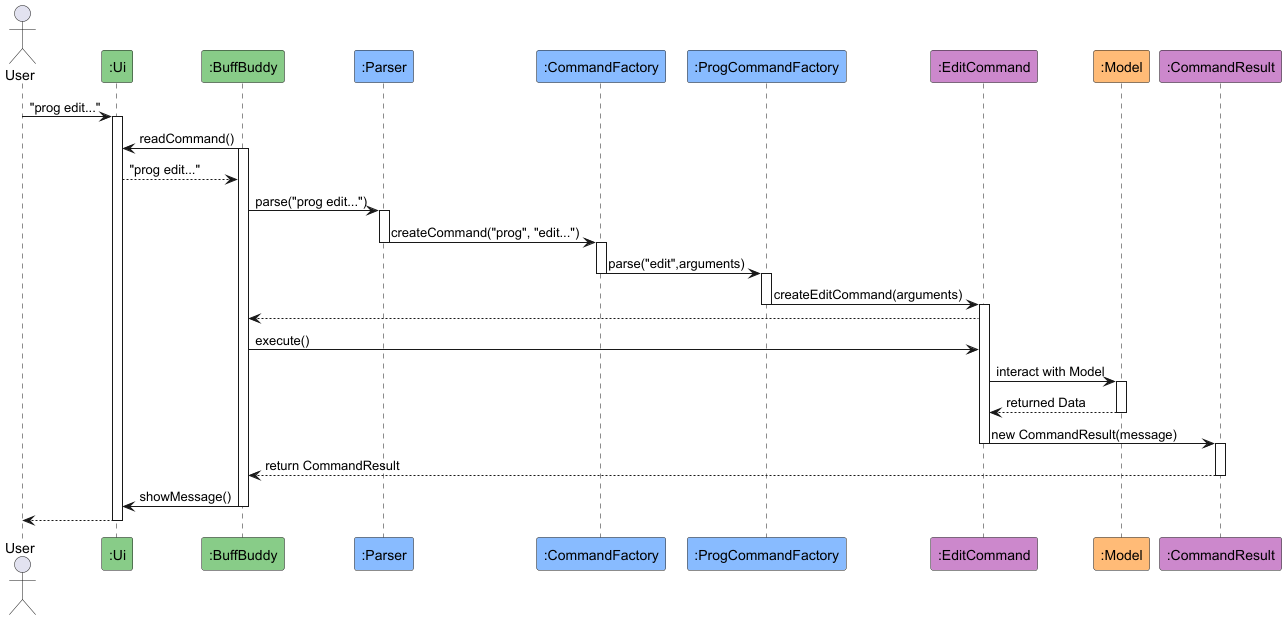
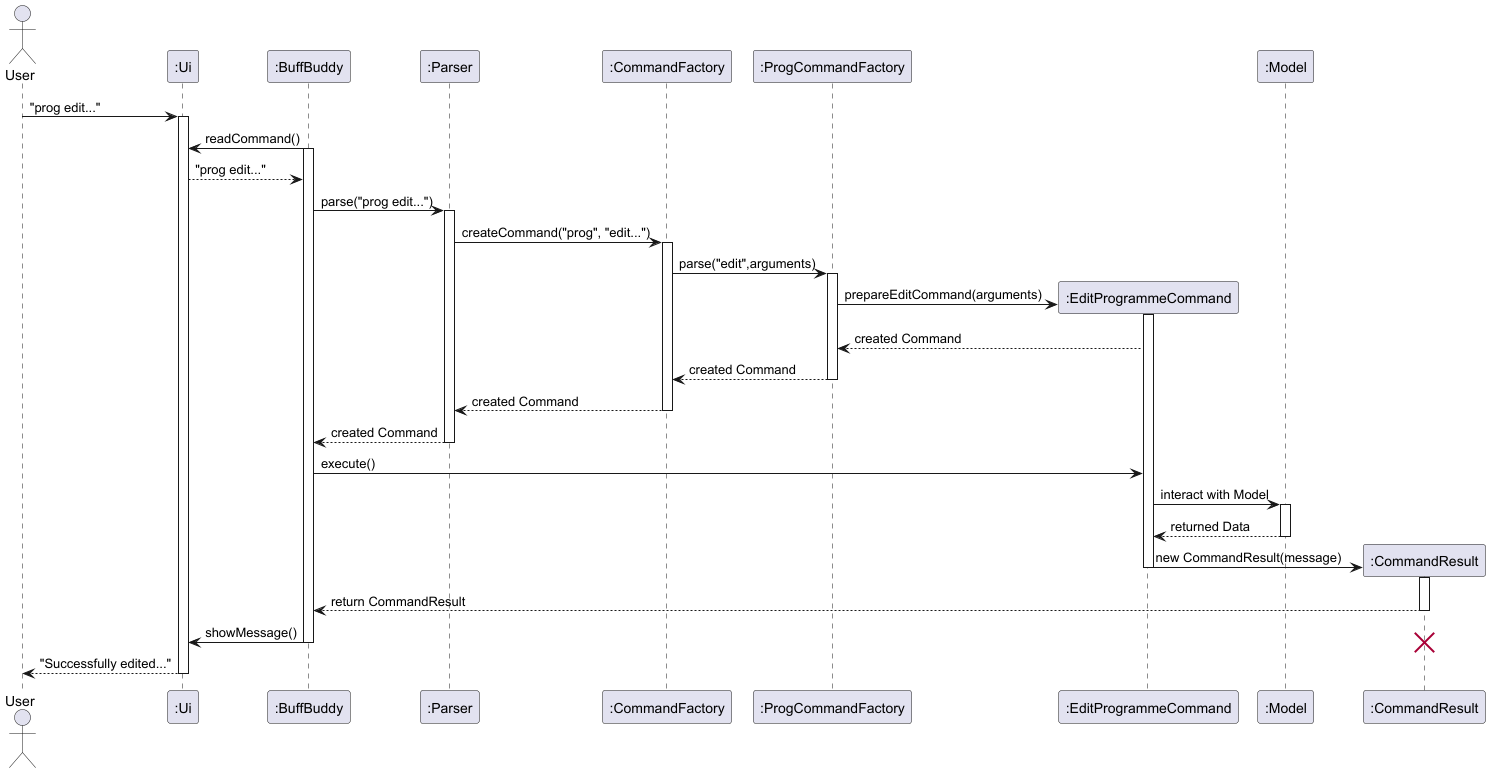
Add edit programme documentation

diff --git a/src/test/java/parser/command/factory/ProgammeCommandFactoryTest.java b/src/test/java/parser/command/factory/ProgammeCommandFactoryTest.java
@@ -29,12 +29,12 @@ import static org.junit.jupiter.api.Assertions.assertInstanceOf;
 import static org.junit.jupiter.api.Assertions.assertEquals;
 import static org.junit.jupiter.api.Assertions.assertThrows;
 
-class ProgCommandFactoryTest {
-    private ProgCommandFactory progCommandFactory;
+class ProgammeCommandFactoryTest {
+    private ProgammeCommandFactory progammeCommandFactory;
 
     @BeforeEach
     void setUp() {
-        progCommandFactory = new ProgCommandFactory();
+        progammeCommandFactory = new ProgammeCommandFactory();
     }
 
     // Tests for parse
@@ -42,7 +42,7 @@ class ProgCommandFactoryTest {
     void testParseValidCreateCommand() {
         String argumentString = "create /p MyProgram /d Day1";
 
-        Command result = progCommandFactory.parse(argumentString);
+        Command result = progammeCommandFactory.parse(argumentString);
 
         assertInstanceOf(CreateProgrammeCommand.class, result);
     }
@@ -51,7 +51,7 @@ class ProgCommandFactoryTest {
     void testParseValidListCommand() {
         String argumentString = "list";
 
-        Command result = progCommandFactory.parse(argumentString);
+        Command result = progammeCommandFactory.parse(argumentString);
 
         assertInstanceOf(ListProgrammeCommand.class, result);
     }
@@ -60,7 +60,7 @@ class ProgCommandFactoryTest {
     void testParseInvalidCommand() {
         String argumentString = "unknownCommand";
 
-        Command result = progCommandFactory.parse(argumentString);
+        Command result = progammeCommandFactory.parse(argumentString);
 
         assertInstanceOf(InvalidCommand.class, result);
     }
@@ -76,7 +76,7 @@ class ProgCommandFactoryTest {
         ArrayList<Day> expectedDays = new ArrayList<>(List.of(expectedDay));
         CreateProgrammeCommand expectedCommand = new CreateProgrammeCommand("MyProgram", expectedDays);
 
-        Command result = progCommandFactory.parse("create " + argumentString);
+        Command result = progammeCommandFactory.parse("create " + argumentString);
 
         assertEquals(expectedCommand, result);
     }
@@ -88,7 +88,7 @@ class ProgCommandFactoryTest {
         CreateProgrammeCommand expectedCommand = new CreateProgrammeCommand("MyEmptyProgram",
                 new ArrayList<>());
 
-        Command result = progCommandFactory.parse("create " + argumentString);
+        Command result = progammeCommandFactory.parse("create " + argumentString);
 
         assertEquals(expectedCommand, result);
     }
@@ -108,7 +108,7 @@ class ProgCommandFactoryTest {
         ArrayList<Day> expectedDays = new ArrayList<>(Arrays.asList(day1, day2));
         CreateProgrammeCommand expectedCommand = new CreateProgrammeCommand("MyProgram", expectedDays);
 
-        Command result = progCommandFactory.parse("create " + argumentString);
+        Command result = progammeCommandFactory.parse("create " + argumentString);
 
         assertEquals(expectedCommand, result);
     }
@@ -132,7 +132,7 @@ class ProgCommandFactoryTest {
         ArrayList<Day> expectedDays = new ArrayList<>(Arrays.asList(day1, day2));
         CreateProgrammeCommand expectedCommand = new CreateProgrammeCommand("MyProgram", expectedDays);
 
-        Command result = progCommandFactory.parse("create " + argumentString);
+        Command result = progammeCommandFactory.parse("create " + argumentString);
 
         assertEquals(expectedCommand, result);
     }
@@ -141,7 +141,7 @@ class ProgCommandFactoryTest {
         String argumentString = "MyProgram /d Day1 /e /name PushUps /set -3 /rep 15 /w 5 /c 50";
 
         assertThrows(ParserException.class,
-                () -> progCommandFactory.parse("create " + argumentString));
+                () -> progammeCommandFactory.parse("create " + argumentString));
     }
 
     @Test
@@ -149,7 +149,7 @@ class ProgCommandFactoryTest {
         String argumentString = "/d Day1 /e /name PushUps /set 3 /rep 15 /w 0 /c 50";
 
         assertThrows(ProgrammeException.class,
-                () -> progCommandFactory.parse("create " + argumentString));
+                () -> progammeCommandFactory.parse("create " + argumentString));
     }
 
     @Test
@@ -157,7 +157,7 @@ class ProgCommandFactoryTest {
         String argumentString = "MyProgram /d /e /name PushUps /set 3 /rep 15 /w 0 /c 50";
 
         assertThrows(ProgrammeException.class,
-                () -> progCommandFactory.parse("create " + argumentString));
+                () -> progammeCommandFactory.parse("create " + argumentString));
     }
 
     @Test
@@ -165,7 +165,7 @@ class ProgCommandFactoryTest {
         String argumentString = "MyProgram /d Day1 /e /name PushUps /set 3 /rep 15 /w invalid /c 50";
 
         assertThrows(ParserException.class,
-                () -> progCommandFactory.parse("create " + argumentString));
+                () -> progammeCommandFactory.parse("create " + argumentString));
     }
 
     @Test
@@ -173,7 +173,7 @@ class ProgCommandFactoryTest {
         String argumentString = "MyProgram /d Day1 /e /name  /set 3 /rep 15 /w 0 /c 50";
 
         assertThrows(FlagException.class,
-                () -> progCommandFactory.parse("create " + argumentString));
+                () -> progammeCommandFactory.parse("create " + argumentString));
     }
 
     @Test
@@ -181,7 +181,7 @@ class ProgCommandFactoryTest {
         String argumentString = "MyProgram /d Day1 /e /name Lunges /rep 15 /w 0 /c 50";
 
         assertThrows(FlagException.class,
-                () -> progCommandFactory.parse("create " + argumentString));
+                () -> progammeCommandFactory.parse("create " + argumentString));
     }
 
 
@@ -191,7 +191,7 @@ class ProgCommandFactoryTest {
         String argumentString = "view 1";
         ViewProgrammeCommand expectedCommand = new ViewProgrammeCommand(0);
 
-        Command result = progCommandFactory.parse(argumentString);
+        Command result = progammeCommandFactory.parse(argumentString);
 
         assertEquals(expectedCommand, result);
     }
@@ -200,7 +200,7 @@ class ProgCommandFactoryTest {
     public void testPrepareViewCommandInvalidIndexFormat() {
         String argumentString = "view invalidIndex";
 
-        assertThrows(ParserException.class, () -> progCommandFactory.parse(argumentString));
+        assertThrows(ParserException.class, () -> progammeCommandFactory.parse(argumentString));
     }
 
     @Test
@@ -208,7 +208,7 @@ class ProgCommandFactoryTest {
         String argumentString = "view";
         ViewProgrammeCommand expectedCommand = new ViewProgrammeCommand(-1);
 
-        Command result = progCommandFactory.parse(argumentString);
+        Command result = progammeCommandFactory.parse(argumentString);
 
         assertEquals(expectedCommand, result);
     }
@@ -219,7 +219,7 @@ class ProgCommandFactoryTest {
         String argumentString = "start 1";
         StartProgrammeCommand expectedCommand = new StartProgrammeCommand(0);
 
-        Command result = progCommandFactory.parse(argumentString);
+        Command result = progammeCommandFactory.parse(argumentString);
 
         assertEquals(expectedCommand, result);
     }
@@ -228,14 +228,14 @@ class ProgCommandFactoryTest {
     public void testPrepareStartCommandNoIndex() {
         String argumentString = "start";
 
-        assertThrows(ParserException.class, () -> progCommandFactory.parse( argumentString));
+        assertThrows(ParserException.class, () -> progammeCommandFactory.parse( argumentString));
     }
 
     @Test
     public void testPrepareStartCommandInvalidIndexFormat() {
         String argumentString = "start invalidIndex";
 
-        assertThrows(ParserException.class, () -> progCommandFactory.parse(argumentString));
+        assertThrows(ParserException.class, () -> progammeCommandFactory.parse(argumentString));
     }
 
     // Tests for prepareDeleteCommand
@@ -244,7 +244,7 @@ class ProgCommandFactoryTest {
         String argumentString = "delete 1";
         DeleteProgrammeCommand expectedCommand = new DeleteProgrammeCommand(0);
 
-        Command result = progCommandFactory.parse(argumentString);
+        Command result = progammeCommandFactory.parse(argumentString);
 
         assertEquals(expectedCommand, result);
     }
@@ -253,7 +253,7 @@ class ProgCommandFactoryTest {
     public void testPrepareDeleteCommandInvalidIndexFormat() {
         String argumentString = "delete invalidIndex";
 
-        assertThrows(ParserException.class, () -> progCommandFactory.parse(argumentString));
+        assertThrows(ParserException.class, () -> progammeCommandFactory.parse(argumentString));
     }
 
     @Test
@@ -261,7 +261,7 @@ class ProgCommandFactoryTest {
         String argumentString = "delete";
         DeleteProgrammeCommand expectedCommand = new DeleteProgrammeCommand(-1);
 
-        Command result = progCommandFactory.parse(argumentString);
+        Command result = progammeCommandFactory.parse(argumentString);
 
         assertEquals(expectedCommand, result);
     }
@@ -273,7 +273,7 @@ class ProgCommandFactoryTest {
         LogProgrammeCommand expectedCommand = new LogProgrammeCommand(0, 0,
                 LocalDate.of(2023, 11, 5));
 
-        Command result = progCommandFactory.parse(argumentString);
+        Command result = progammeCommandFactory.parse(argumentString);
 
         assertEquals(expectedCommand, result);
     }
@@ -282,7 +282,7 @@ class ProgCommandFactoryTest {
     public void testPrepareLogCommandMissingDayFlag() {
         String argumentString = "log /p 1 /date 05-11-2023";
 
-        assertThrows(FlagException.class, () -> progCommandFactory.parse( argumentString));
+        assertThrows(FlagException.class, () -> progammeCommandFactory.parse( argumentString));
     }
 
     @Test
@@ -290,7 +290,7 @@ class ProgCommandFactoryTest {
         //Expected format: dd-MM-yyyy
         String argumentString = "log /p 1 /d 0 /date 2023-11-05";
 
-        assertThrows(ParserException.class, () -> progCommandFactory.parse( argumentString));
+        assertThrows(ParserException.class, () -> progammeCommandFactory.parse( argumentString));
     }
 
     @Test
@@ -299,7 +299,7 @@ class ProgCommandFactoryTest {
         LocalDate currentDate = LocalDate.now();
         LogProgrammeCommand expectedCommand = new LogProgrammeCommand(0, 0, currentDate);
 
-        Command result = progCommandFactory.parse(argumentString);
+        Command result = progammeCommandFactory.parse(argumentString);
 
         assertEquals(expectedCommand, result);
     }
@@ -311,7 +311,7 @@ class ProgCommandFactoryTest {
         LocalDate currentDate = LocalDate.now();
         LogProgrammeCommand expectedCommand = new LogProgrammeCommand(-1, 3, currentDate);
 
-        Command result = progCommandFactory.parse(argumentString);
+        Command result = progammeCommandFactory.parse(argumentString);
 
         assertEquals(expectedCommand, result);
     }

diff --git a/src/main/java/parser/command/factory/CommandFactory.java b/src/main/java/parser/command/factory/CommandFactory.java
@@ -25,7 +25,7 @@ import command.InvalidCommand;
  * @author nirala-ts
  */
 public class CommandFactory {
-    private final ProgCommandFactory progFactory;
+    private final ProgammeCommandFactory progFactory;
     private final MealCommandFactory mealFactory;
     private final WaterCommandFactory waterFactory;
     private final HistoryCommandFactory historyFactory;
@@ -35,7 +35,7 @@ public class CommandFactory {
      * specific types of commands.
      */
     public CommandFactory() {
-        this.progFactory = new ProgCommandFactory();
+        this.progFactory = new ProgammeCommandFactory();
         this.mealFactory = new MealCommandFactory();
         this.waterFactory = new WaterCommandFactory();
         this.historyFactory = new HistoryCommandFactory();
@@ -50,7 +50,7 @@ public class CommandFactory {
      * @param waterFactory the {@code WaterCommandFactory} instance to handle "water" commands
      * @param historyFactory the {@code HistoryCommandFactory} instance to handle "history" commands
      */
-    public CommandFactory(ProgCommandFactory progFactory, MealCommandFactory mealFactory,
+    public CommandFactory(ProgammeCommandFactory progFactory, MealCommandFactory mealFactory,
                           WaterCommandFactory waterFactory, HistoryCommandFactory historyFactory) {
         this.progFactory = progFactory;
         this.mealFactory = mealFactory;
@@ -71,7 +71,7 @@ public class CommandFactory {
         assert commandString != null;
 
         return switch (commandString) {
-        case ProgCommandFactory.COMMAND_WORD -> progFactory.parse(argumentString);
+        case ProgammeCommandFactory.COMMAND_WORD -> progFactory.parse(argumentString);
         case MealCommandFactory.COMMAND_WORD -> mealFactory.parse(argumentString);
         case WaterCommandFactory.COMMAND_WORD -> waterFactory.parse(argumentString);
         case HistoryCommandFactory.COMMAND_WORD -> historyFactory.parse(argumentString);

diff --git a/src/test/java/parser/command/factory/CommandFactoryTest.java b/src/test/java/parser/command/factory/CommandFactoryTest.java
@@ -17,14 +17,14 @@ import static org.mockito.Mockito.verify;
 class CommandFactoryTest {
 
     private CommandFactory commandFactory;
-    private ProgCommandFactory progFactoryMock;
+    private ProgammeCommandFactory progFactoryMock;
     private MealCommandFactory mealFactoryMock;
     private WaterCommandFactory waterFactoryMock;
     private HistoryCommandFactory historyFactoryMock;
 
     @BeforeEach
     void setUp() {
-        progFactoryMock = mock(ProgCommandFactory.class);
+        progFactoryMock = mock(ProgammeCommandFactory.class);
         mealFactoryMock = mock(MealCommandFactory.class);
         waterFactoryMock = mock(WaterCommandFactory.class);
         historyFactoryMock = mock(HistoryCommandFactory.class);

diff --git a/src/main/java/parser/command/factory/ProgammeCommandFactory.java b/src/main/java/parser/command/factory/ProgammeCommandFactory.java
@@ -65,7 +65,7 @@ import static parser.ParserUtils.splitArguments;
  *
  */
 
-public class ProgCommandFactory {
+public class ProgammeCommandFactory {
     public static final String COMMAND_WORD = "prog";
     private final Logger logger = Logger.getLogger(this.getClass().getName());
 

diff --git a/docs/DeveloperGuide.md b/docs/DeveloperGuide.md
@@ -301,7 +301,7 @@ The following diagram documents all `ProgrammeCommand` subclasses.
 The **Create Programme** feature allows users to create a new workout programme, which can be either empty (with only a name)
 or contain multiple days with specific exercises.
 
-### Example Usage
+#### Example Usage
 
 1. **User Starts BuffBuddy**:
     - The user initiates the BuffBuddy application.
@@ -429,6 +429,37 @@ To summarize, the following activity diagram describes how the overall operation
 
 ![Edit Command Diagram](images/editCommandActivityDiagram.png)
 <!-- @@author Atulteja -->
+
+### Delete Programme
+
+#### Overview
+
+The **Delete Programme** feature allows users to delete created programmes from the programme list.
+
+#### Sequence Diagram
+
+![Delete Programme Sequence Diagram](images/deleteProgramme.png)
+
+#### Example Usage
+
+Given below is an example usage scenario for 'delete programme' and how the delete programme command functions at each step.
+
+**Step 1:** The user has a list of workout programmes stored in `ProgrammeList`. Each programme may contain multiple days and exercises.
+
+**Step 2:** The user executes the command `programme delete 1` to delete the first programme in the list.
+
+**Step 3:** After parsing this input, a `DeleteProgrammeCommand` is created and executed.
+
+**Step 4:** The command then calls `ProgrammeList#deleteProgram()` with the given programme index to remove the programme from the list.
+
+**Step 5:** The deleted `Programme` object is returned to the `DeleteProgrammeCommand`.
+
+**Step 6:** The `DeleteProgrammeCommand` formats the details of the deleted programme into a message.
+
+**Step 7:** The formatted message is included in a `CommandResult`, which is returned to the user interface.
+
+**Step 8:** The user interface displays the result message to the user, confirming the successful deletion of the programme.
+
 ### Add Meal
 
 #### Feature Implementation
